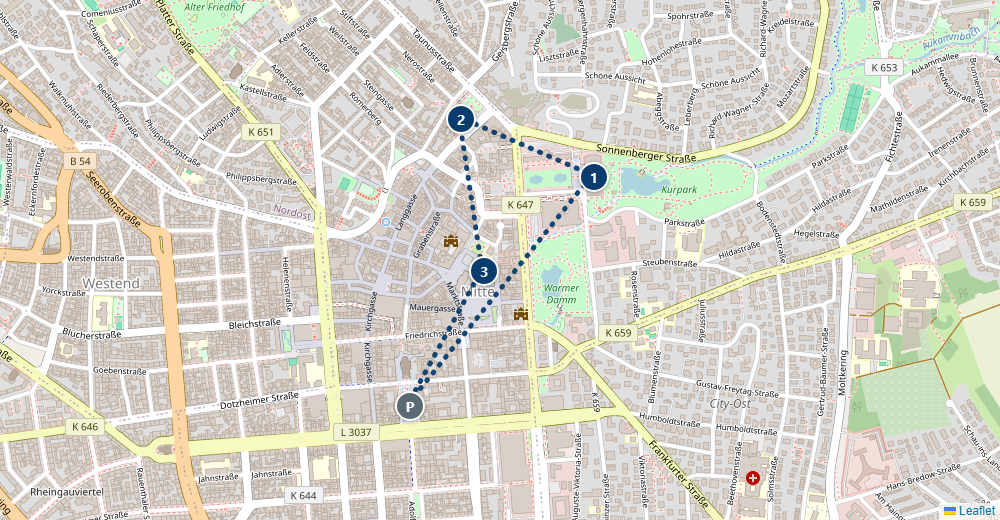
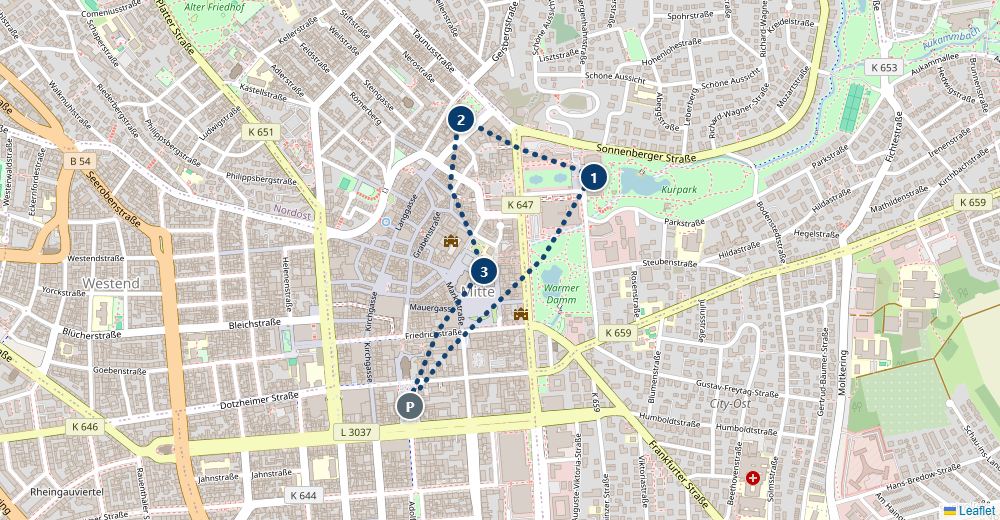
Redraw Wiesbaden walking route to follow real streets instead of straight lines
Traced waypoints along Wilhelmstrasse/Rheinstrasse to the Kurhaus,
Sonnenberger Strasse to Kochbrunnen, Grabenstrasse/Langgasse down to
Marktkirche, and Kirchgasse/Bleichstrasse back to parking, instead of
straight segments between the 3 numbered stops.

diff --git a/germany-roadtrip-planner.html b/germany-roadtrip-planner.html
@@ -4074,7 +4074,7 @@ document.addEventListener('DOMContentLoaded', function(){
       <a class="walk-map-link" href="https://www.google.com/maps/dir/?api=1&travelmode=walking&origin=50.0785,8.2397&destination=50.0785,8.2397&waypoints=50.0848%2C8.2476%7C50.0864%2C8.2419%7C50.0822,8.2429" target="_blank" rel="noopener">📍 Google 지도로 도보 코스 보기(출발·도착: Parkhaus Luisenplatz) · 총 약 3.0km · 도보 약 41분</a>
       <div class="route-snapshot">
         <div class="route-snapshot-media">
-          <img src="images/routes/wiesbaden.png?v=2" alt="비스바덴 도보 코스 지도 스냅샷" loading="lazy">
+          <img src="images/routes/wiesbaden.png?v=3" alt="비스바덴 도보 코스 지도 스냅샷" loading="lazy">
         </div>
         <ol class="route-steps">
         <li class="rs-p"><span class="rs-name">Parkhaus Luisenplatz</span></li>

diff --git a/index.html b/index.html
@@ -4074,7 +4074,7 @@ document.addEventListener('DOMContentLoaded', function(){
       <a class="walk-map-link" href="https://www.google.com/maps/dir/?api=1&travelmode=walking&origin=50.0785,8.2397&destination=50.0785,8.2397&waypoints=50.0848%2C8.2476%7C50.0864%2C8.2419%7C50.0822,8.2429" target="_blank" rel="noopener">📍 Google 지도로 도보 코스 보기(출발·도착: Parkhaus Luisenplatz) · 총 약 3.0km · 도보 약 41분</a>
       <div class="route-snapshot">
         <div class="route-snapshot-media">
-          <img src="images/routes/wiesbaden.png?v=2" alt="비스바덴 도보 코스 지도 스냅샷" loading="lazy">
+          <img src="images/routes/wiesbaden.png?v=3" alt="비스바덴 도보 코스 지도 스냅샷" loading="lazy">
         </div>
         <ol class="route-steps">
         <li class="rs-p"><span class="rs-name">Parkhaus Luisenplatz</span></li>
